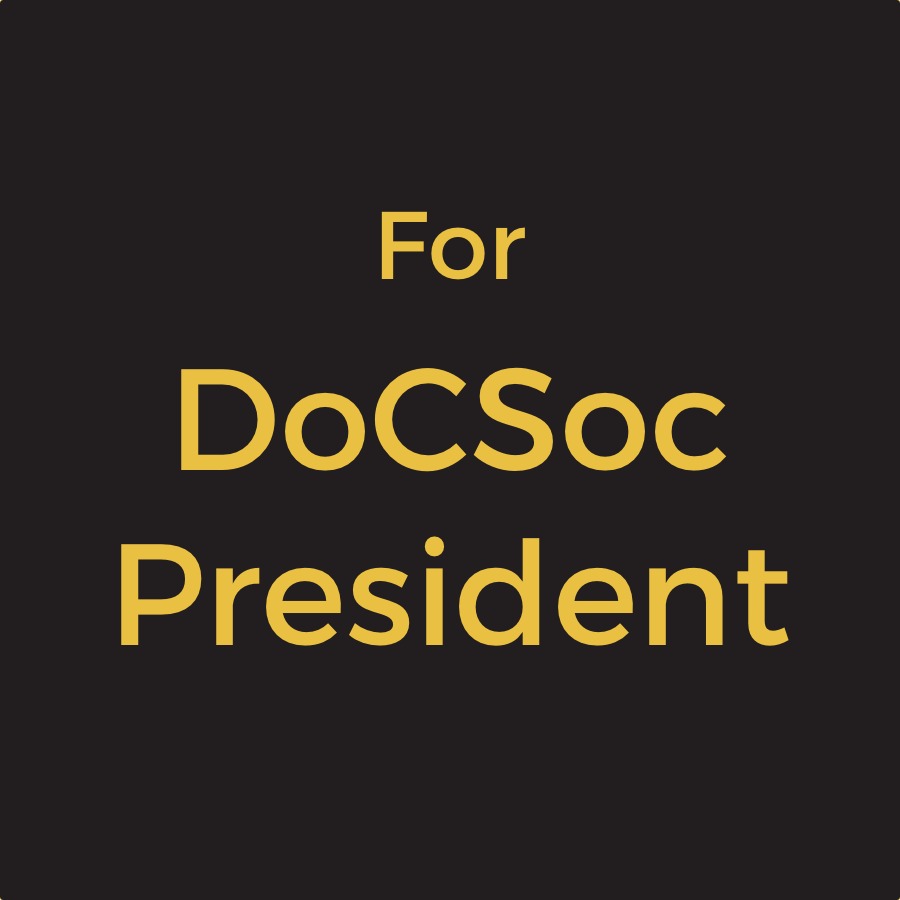
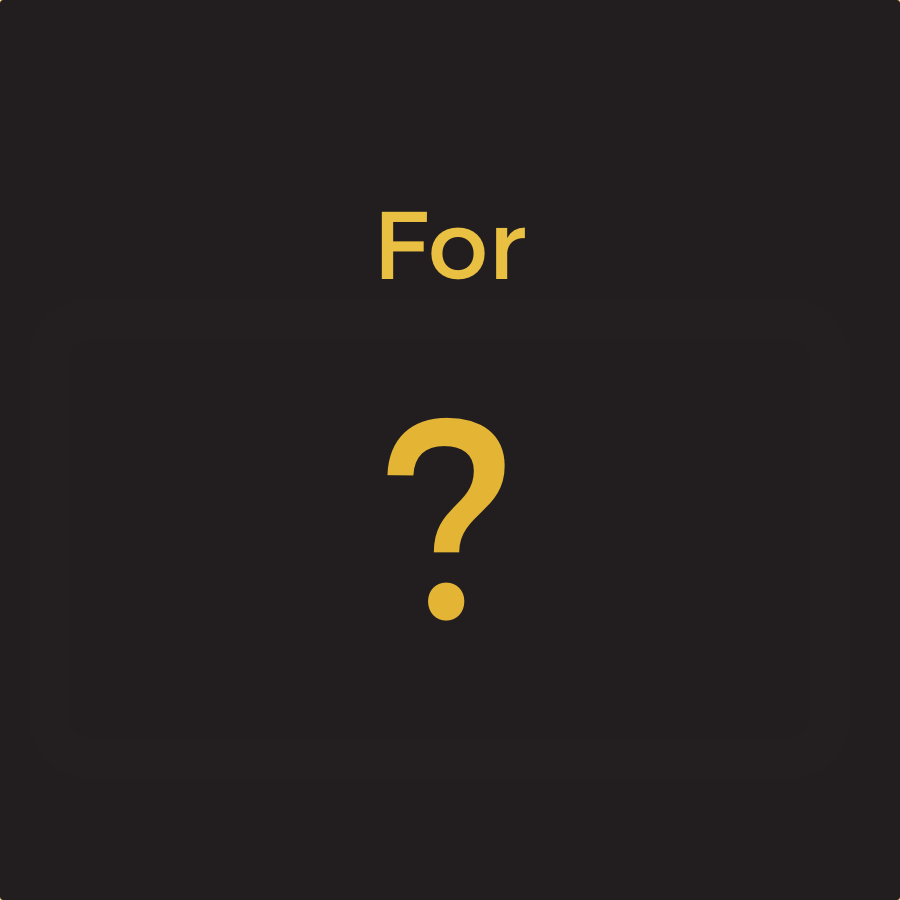
Add basic structure

Changed region(s): [[0.1244, 0.4044, 0.8711, 0.7156]]

diff --git a/css/hexagons.css b/css/hexagons.css
@@ -3,7 +3,28 @@
     padding: 0;
 }
 body {
+    background: #f2c643;
+    font-family: 'Montserrat',Arial,sans-serif;
+}
+.bg-light {
     background: #fff;
+}
+.no-margin {
+  margin-top: 0px;
+}
+.radius {
+  border-radius: 25px 25px 25px 25px;
+  border: 7px solid #231f20;
+}
+.pad {
+  padding-left: 10px;
+  padding-right: 10px;
+}
+.txt-primary {
+    color: #f2c643;
+}
+.bg-dark {
+  background-color: #231f20;
 }
 #hexGrid {
   display: flex;
